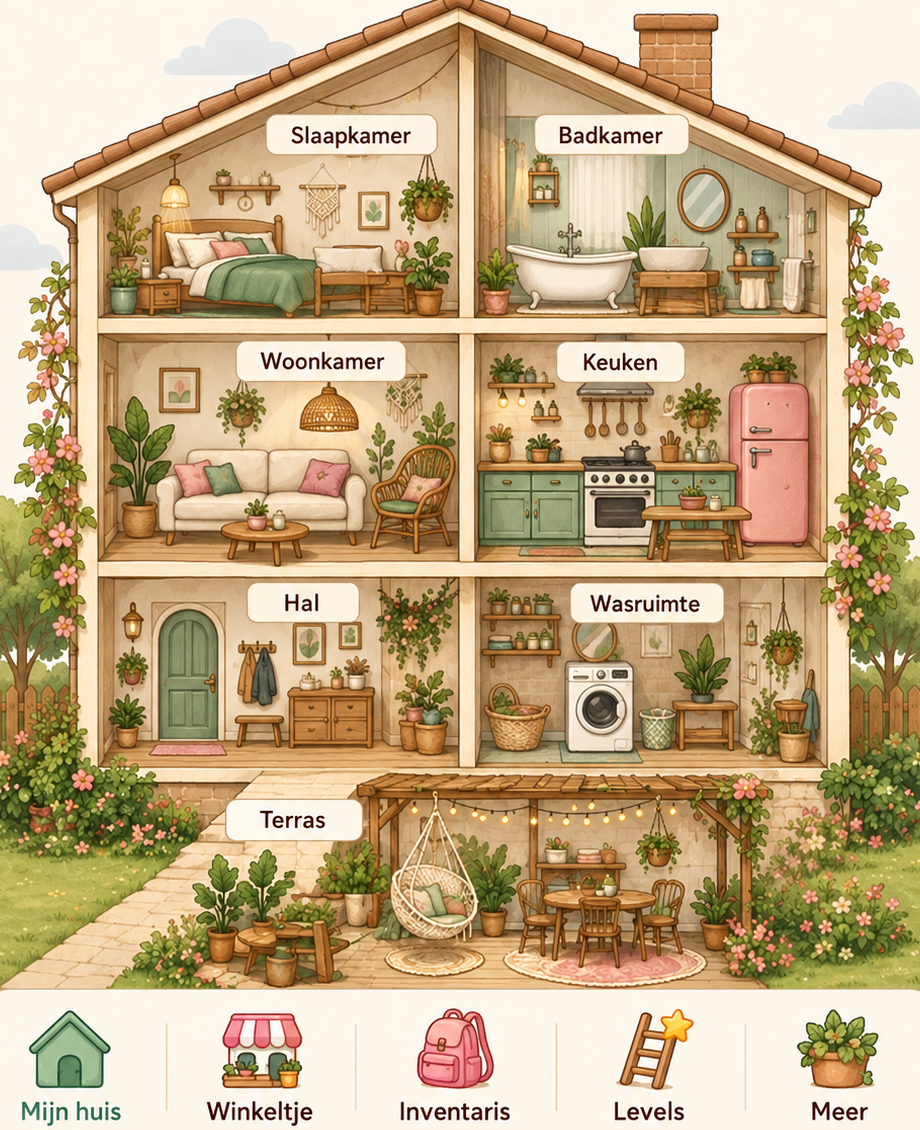
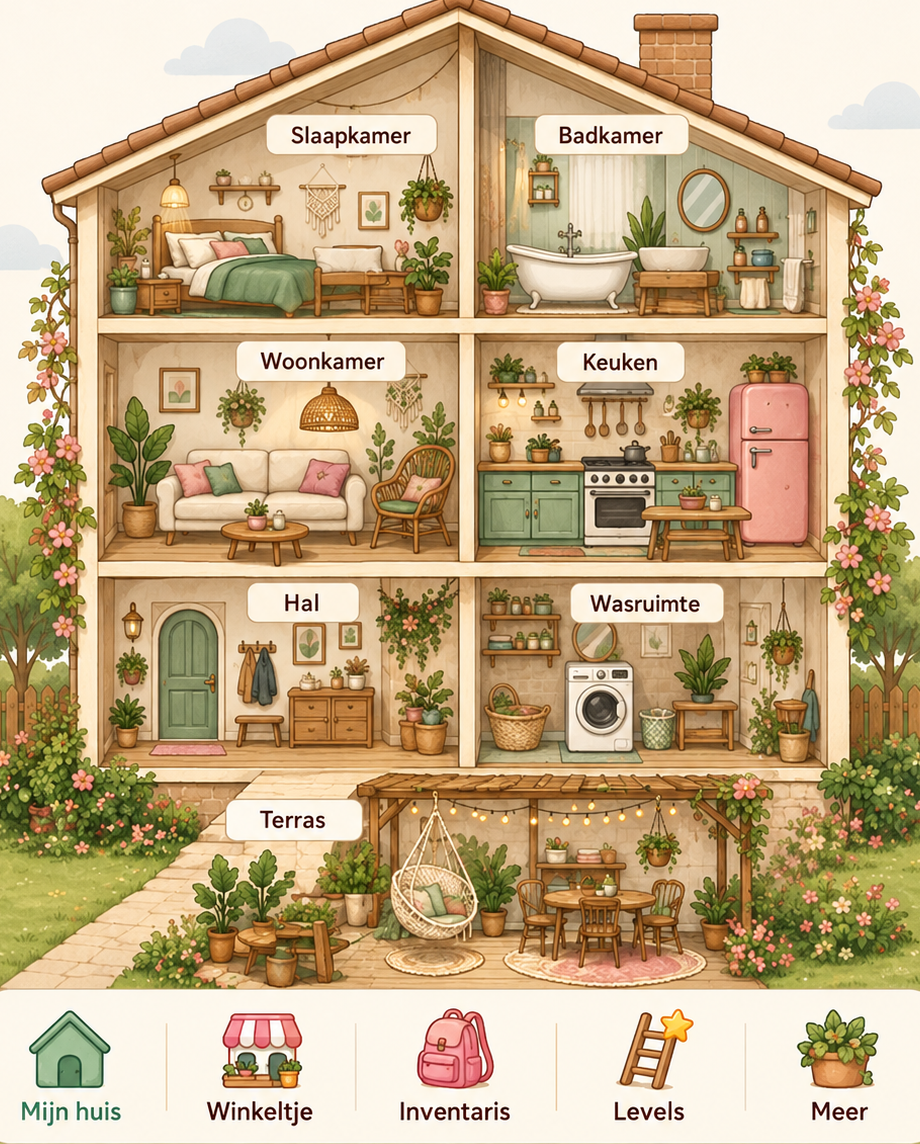
Add files via upload

diff --git a/style.css b/style.css
@@ -1125,11 +1125,31 @@
   display:none !important;
 }
 
-/* Definitieve vaste basis: geen onderrand onder de navigatie. */
+/* Onderste navigatie: geen lijnen/randen/schaduwen vanuit HTML/CSS.
+   Afbeeldingen zelf blijven volledig onaangeroerd. */
 #houseScreen,
-.home-composed,
-.home-main-img{
+#houseScreen .home-composed,
+#houseScreen .home-main-img,
+#houseScreen .home-part,
+#houseScreen img,
+#houseScreen::before,
+#houseScreen::after,
+#houseScreen .home-composed::before,
+#houseScreen .home-composed::after{
+  border:0 !important;
+  border-top:0 !important;
+  border-right:0 !important;
   border-bottom:0 !important;
-  box-shadow:none !important;
+  border-left:0 !important;
   outline:0 !important;
+  box-shadow:none !important;
+  text-decoration:none !important;
+}
+
+/* Niets mag onder de onderste navigatie uit de compositie lekken. */
+#houseScreen{
+  overflow:hidden !important;
+}
+#houseScreen .home-composed{
+  overflow:hidden !important;
 }
